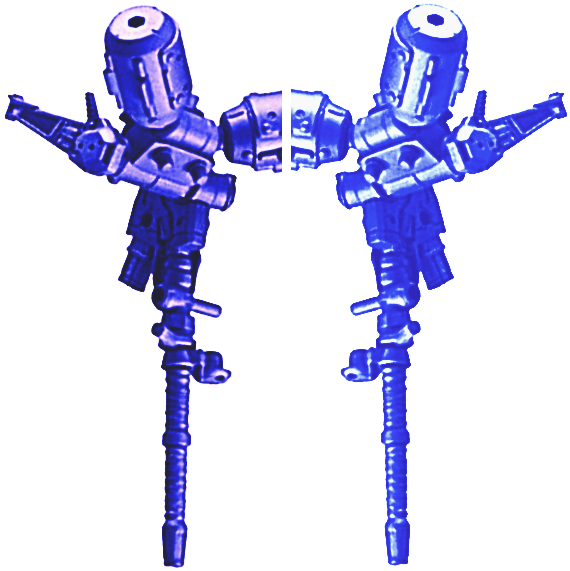
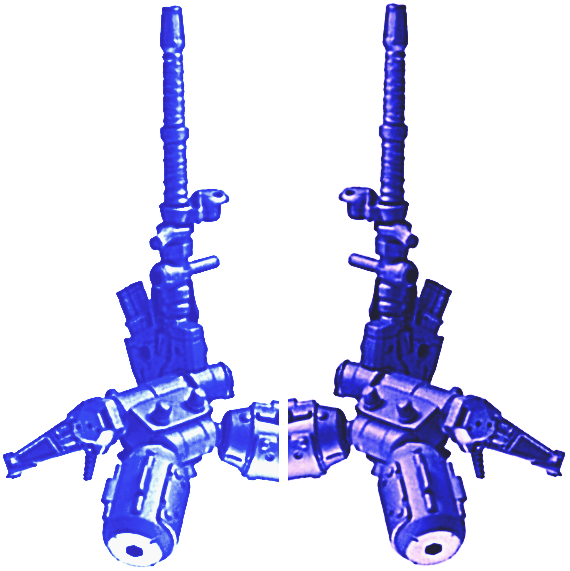
와프이미지변경

diff --git a/stage01.js b/stage01.js
@@ -465,6 +465,7 @@ var player_45 = new Image();
 player_45.src = "./img/player_45.png";
 player_45.addEventListener("load",drawScreen, false);
 
+//플레이어 와프이미지
 var player_warp = new Image();
 player_warp.src = "./img/player_warp.png";
 player_warp.addEventListener("load",drawScreen, false);
@@ -472,7 +473,12 @@ player_warp.addEventListener("load",drawScreen, false);
 var warp = new Image();
 warp.src = "./img/player_warp.png";
 warp.addEventListener("load",drawScreen, false);
- 
+
+//플레이어 쉴드이미지
+var player_shield = new Image();
+player_shield.src = "./img/player_shield.png";
+player_shield.addEventListener("load",drawScreen, false);
+
 //폭파이미지01
 var explosionImage01 = new Image();
 explosionImage01.src = "./img/explosion01.png";
@@ -604,7 +610,7 @@ var bonus_cnt = 1;
 
 
 //플레이어 무적시간
-var ini_ready_time = 200;
+var ini_ready_time = 140;
 var ready_time = ini_ready_time;
 
 /////////////////////////////////////////플레이어 레이져 초기 설정///////////////////////////////////////////
@@ -1382,7 +1388,7 @@ function player_move(){
     if (ready_time > 0 ){ 
         warp_sound.currentTime  = 0;
         warp_sound.play();
-        playerImage = player_warp; 
+        playerImage = player_shield; 
         player_collision_yn = 'Y'; 
         wayBefore = "";
         isKeyDown = [];
